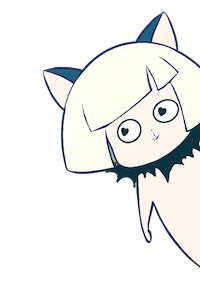
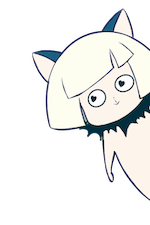
改图

diff --git a/css/index.less b/css/index.less
@@ -110,22 +110,42 @@ body,html{
           }
               .right-side{
                 z-index: 999;
-                width: 80px;
+                width: 70px;
                 position: fixed;
-                top: 30%;
+                bottom: 0;
                 right: 0;
                 img{
                   width: 100%;
-
                   &:hover{
                     transition: all 1s;
                     transform-origin: right;
                     transform: scale(1.7);
                   }
-                  .gotHat{
-                    display: none !important;
-                  }
                 }
+                .gotHat{
+                  display: none ;
+                  position: absolute;
+                  bottom: 240px;
+                  right: 0;
+                }
+                .getHat{
+                  position: absolute;
+                  bottom: 240px;
+                  right: 0;
+                }
+                .hat:nth-of-type(0){
+                  position: absolute;
+                  bottom: 140px;
+                  right: 0;
+
+                }
+
+                .hat:nth-of-type(1){
+                  position: absolute;
+                  bottom: 30px;
+                  right: 0;
+                }
+
               }
       }
 }

diff --git a/css/index.css b/css/index.css
@@ -137,9 +137,9 @@ html .footer .left-side ul > li:hover {
 body .footer .right-side,
 html .footer .right-side {
   z-index: 999;
-  width: 80px;
+  width: 70px;
   position: fixed;
-  top: 30%;
+  bottom: 0;
   right: 0;
 }
 body .footer .right-side img,
@@ -152,7 +152,28 @@ html .footer .right-side img:hover {
   transform-origin: right;
   transform: scale(1.7);
 }
-body .footer .right-side img .gotHat,
-html .footer .right-side img .gotHat {
-  display: none !important;
+body .footer .right-side .gotHat,
+html .footer .right-side .gotHat {
+  display: none ;
+  position: absolute;
+  bottom: 240px;
+  right: 0;
+}
+body .footer .right-side .getHat,
+html .footer .right-side .getHat {
+  position: absolute;
+  bottom: 240px;
+  right: 0;
+}
+body .footer .right-side .hat:nth-of-type(0),
+html .footer .right-side .hat:nth-of-type(0) {
+  position: absolute;
+  bottom: 140px;
+  right: 0;
+}
+body .footer .right-side .hat:nth-of-type(1),
+html .footer .right-side .hat:nth-of-type(1) {
+  position: absolute;
+  bottom: 30px;
+  right: 0;
 }

diff --git a/index.html b/index.html
@@ -49,9 +49,9 @@
     </div>
     <div class="right-side">
         <img src="images/reolCat.png" class="getHat" alt="dbq">
-        <img src="images/reolCat.png" class="gotHat" alt="dbq">
+        <img src="images/hatReol.png" class="gotHat" alt="dbq">
         <img src="images/okikuRabbit.png" class="hat" alt="dbq">
-        <img src="images/reolCat.png" class="hat" alt="dbq">
+        <img src="images/gigaBear.png" class="hat" alt="dbq">
     </div>
 </div>
 

diff --git a/js/index.js b/js/index.js
@@ -39,8 +39,12 @@ $(function() {
     });
 
     // 给reol戴帽子
-    $(".footer .hat").click(function () {
+    $(".hat").click(function () {
         $(".getHat").stop().fadeOut(500);
-        $(".gotHat").stop().fadeIn(500);
+        $(".gotHat").stop().delay(500).fadeIn(1000);
+    });
+    $(".hat").mouseenter(function () {
+        $(".getHat").stop().fadeOut(500);
+        $(".gotHat").stop().delay(500).fadeIn(1000);
     })
 });
